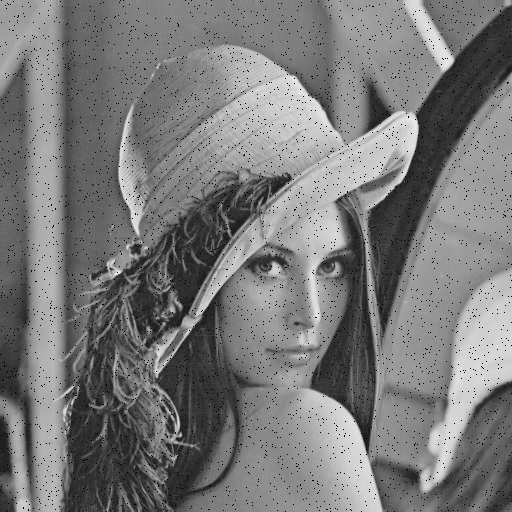
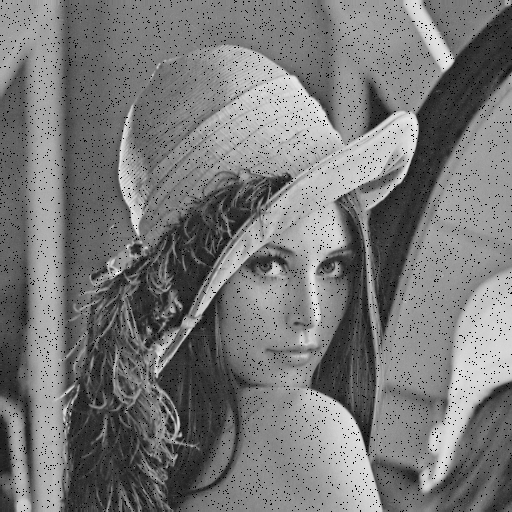
finished contraharmonic

diff --git a/utils.py b/utils.py
@@ -292,6 +292,20 @@ def gradient_sobel(img):
 
     return get_imagetk(final_img), get_imagetk(x_grad), get_imagetk(y_grad)
 
+def contraharmonic():
+    # Pang-test pero change ni drew
+    img = cv2.imread('./assets/salt_and_pepper.png')
+    cv2.imshow('orig', img)
+    q = 1.5
+    size = (3,3)
+    numerator = np.power(img, q+1)
+    denominator = np.power(img, q)
+    kernel = np.full(size, 1.0)
+    print(kernel)
+
+    res = cv2.filter2D(numerator, -1, kernel) / cv2.filter2D(denominator, -1, kernel)
+    cv2.imshow('contra', res.astype(np.uint8))
+
 
 def generate_more_filters(base_image):
     if base_image == 'Grayscale':
@@ -334,4 +348,5 @@ def generate_more_filters(base_image):
 # https://www.geeksforgeeks.org/spatial-filters-averaging-filter-and-median-filter-in-image-processing/
 # https://www.youtube.com/watch?v=5l0y-LMM1c0&t=39s
 # https://github.com/adamiao/sobel-filter-tutorial/blob/master/sobel_from_scratch.py
+# https://stackabuse.com/introduction-to-image-processing-in-python-with-opencv/ 
 # ###

diff --git a/StateManager.py b/StateManager.py
@@ -13,6 +13,7 @@ from utils import \
     salt_and_pepper, \
     salt, \
     pepper, \
+    contraharmonic, \
     open_image
 from copy import deepcopy
 
@@ -263,7 +264,10 @@ class StateManager(Subject):
             "Salt": salt(deepcopy(cv2_image)),
 
             # salt
-            "Pepper": pepper(deepcopy(cv2_image))
+            "Pepper": pepper(deepcopy(cv2_image)),
+
+            # contraharmonic
+            "Contraharmonic": contraharmonic()
         }
 
     # Opens an image and properly formats it
